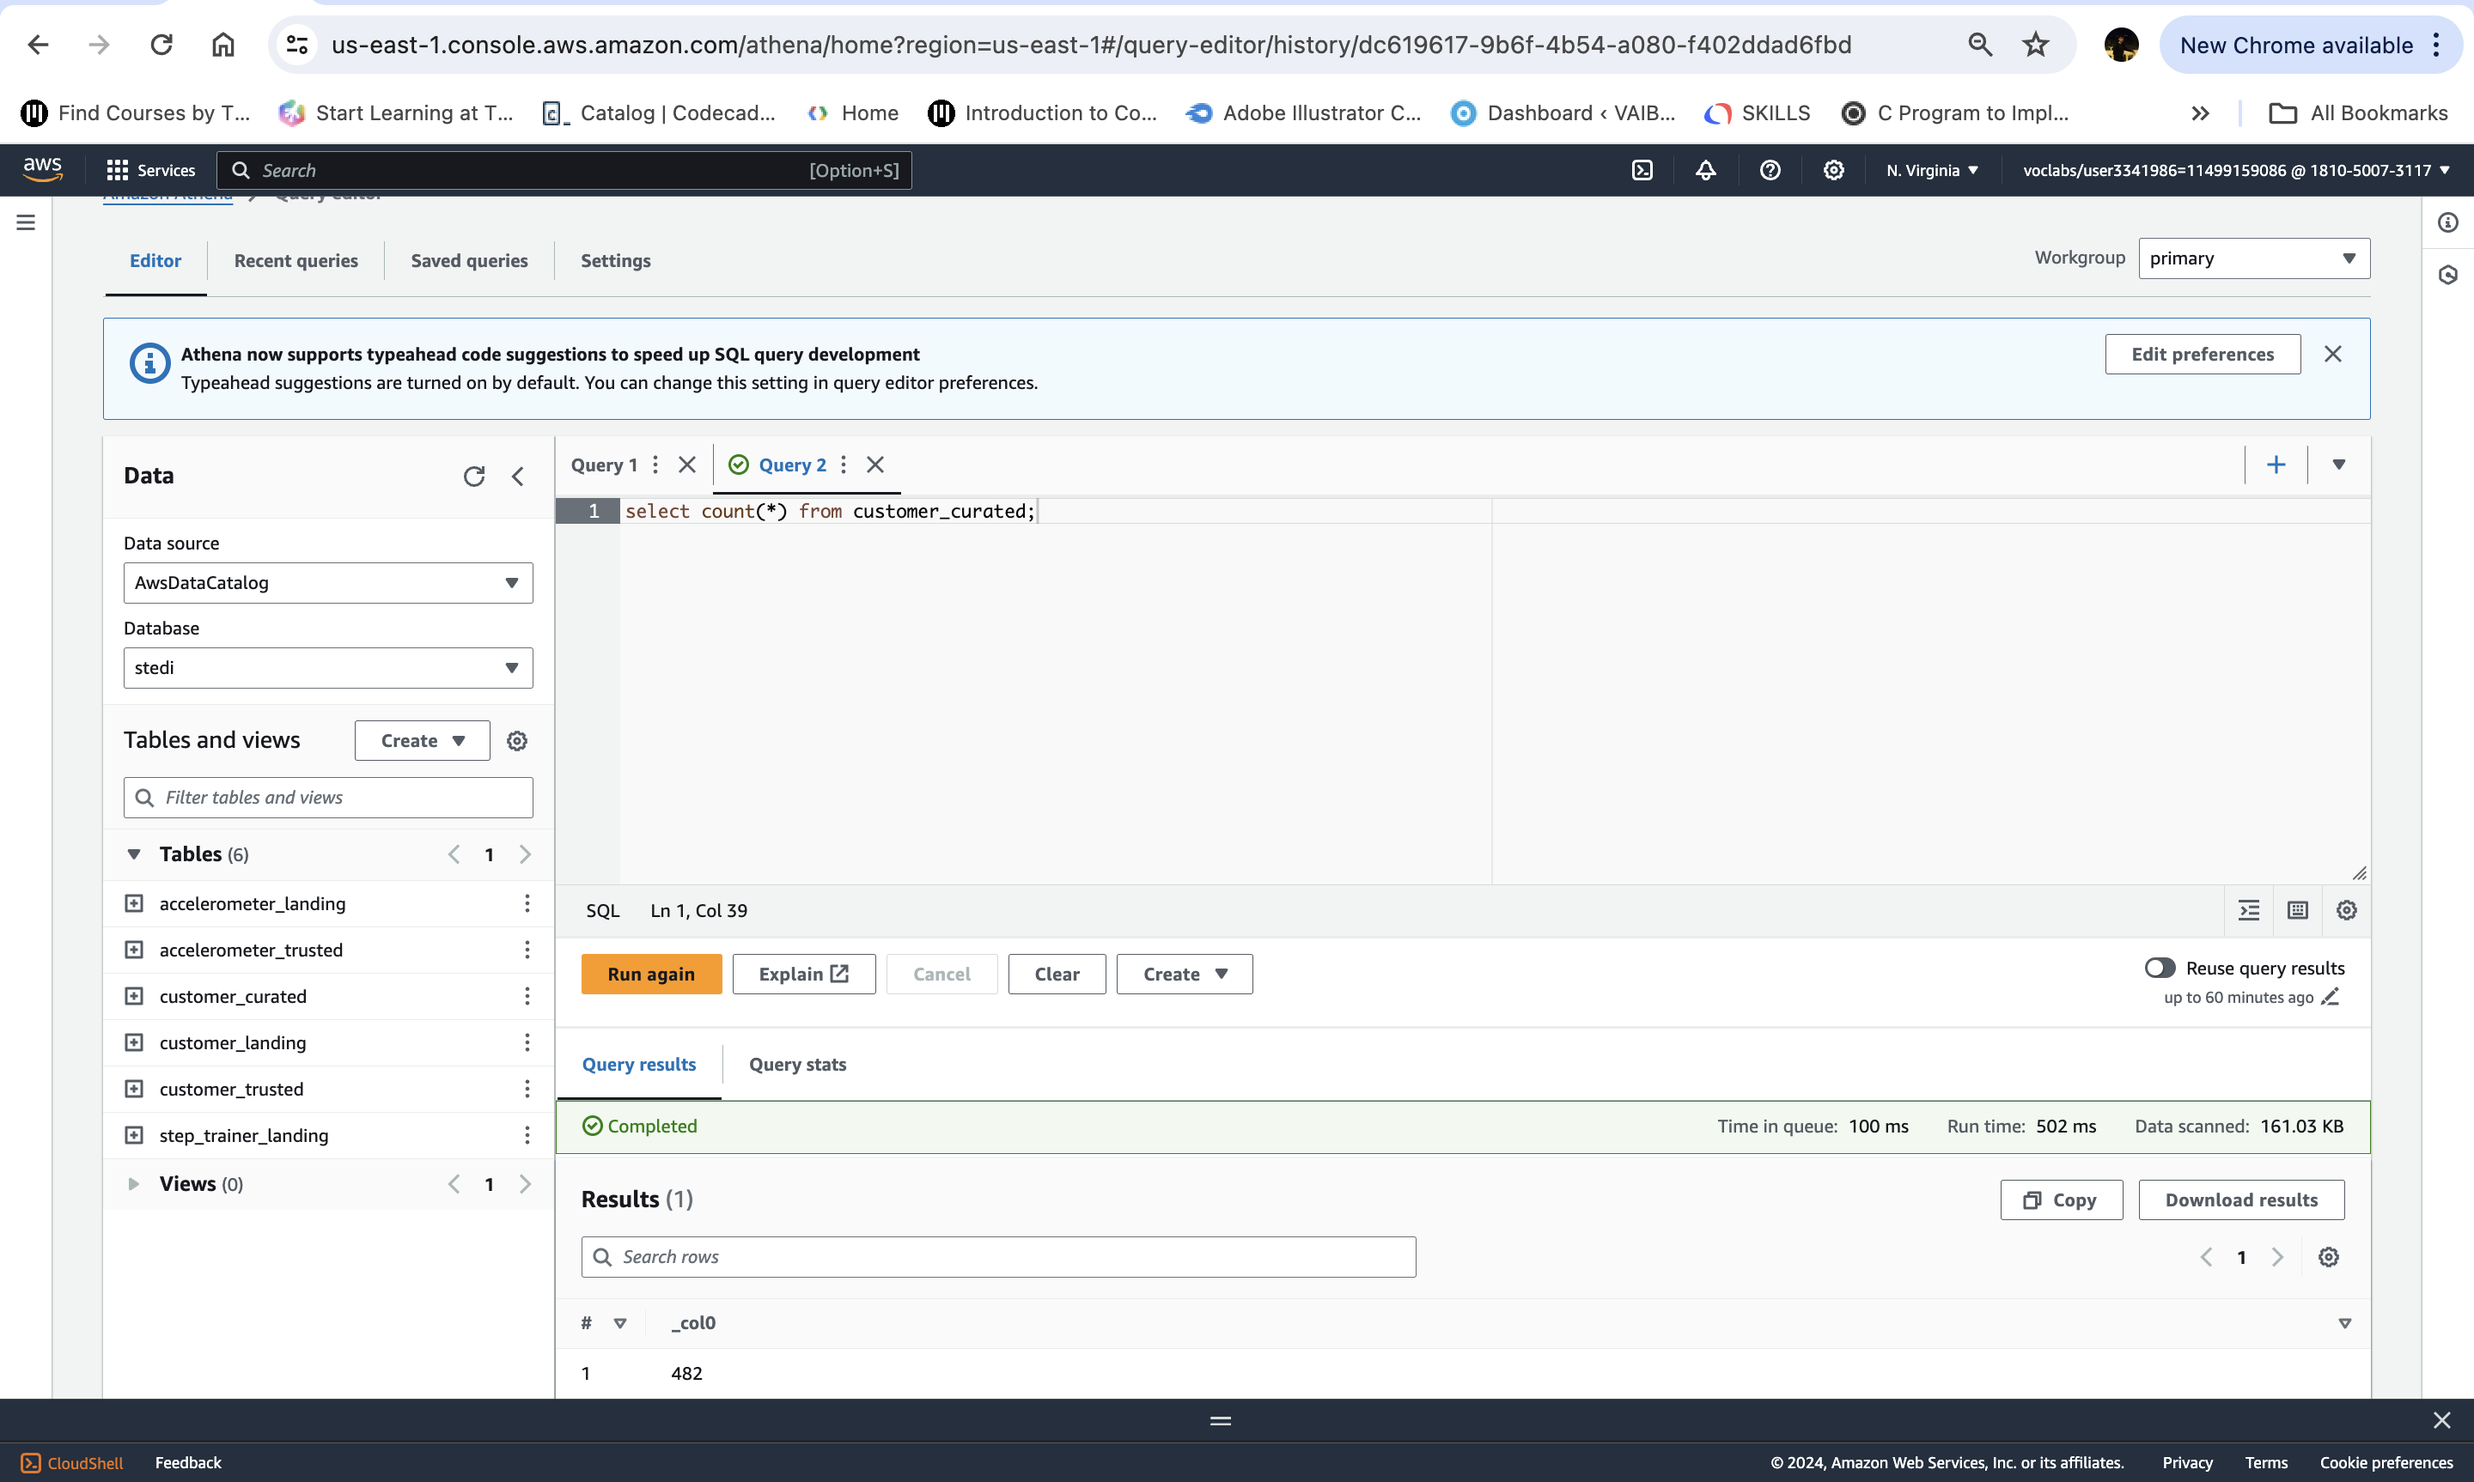
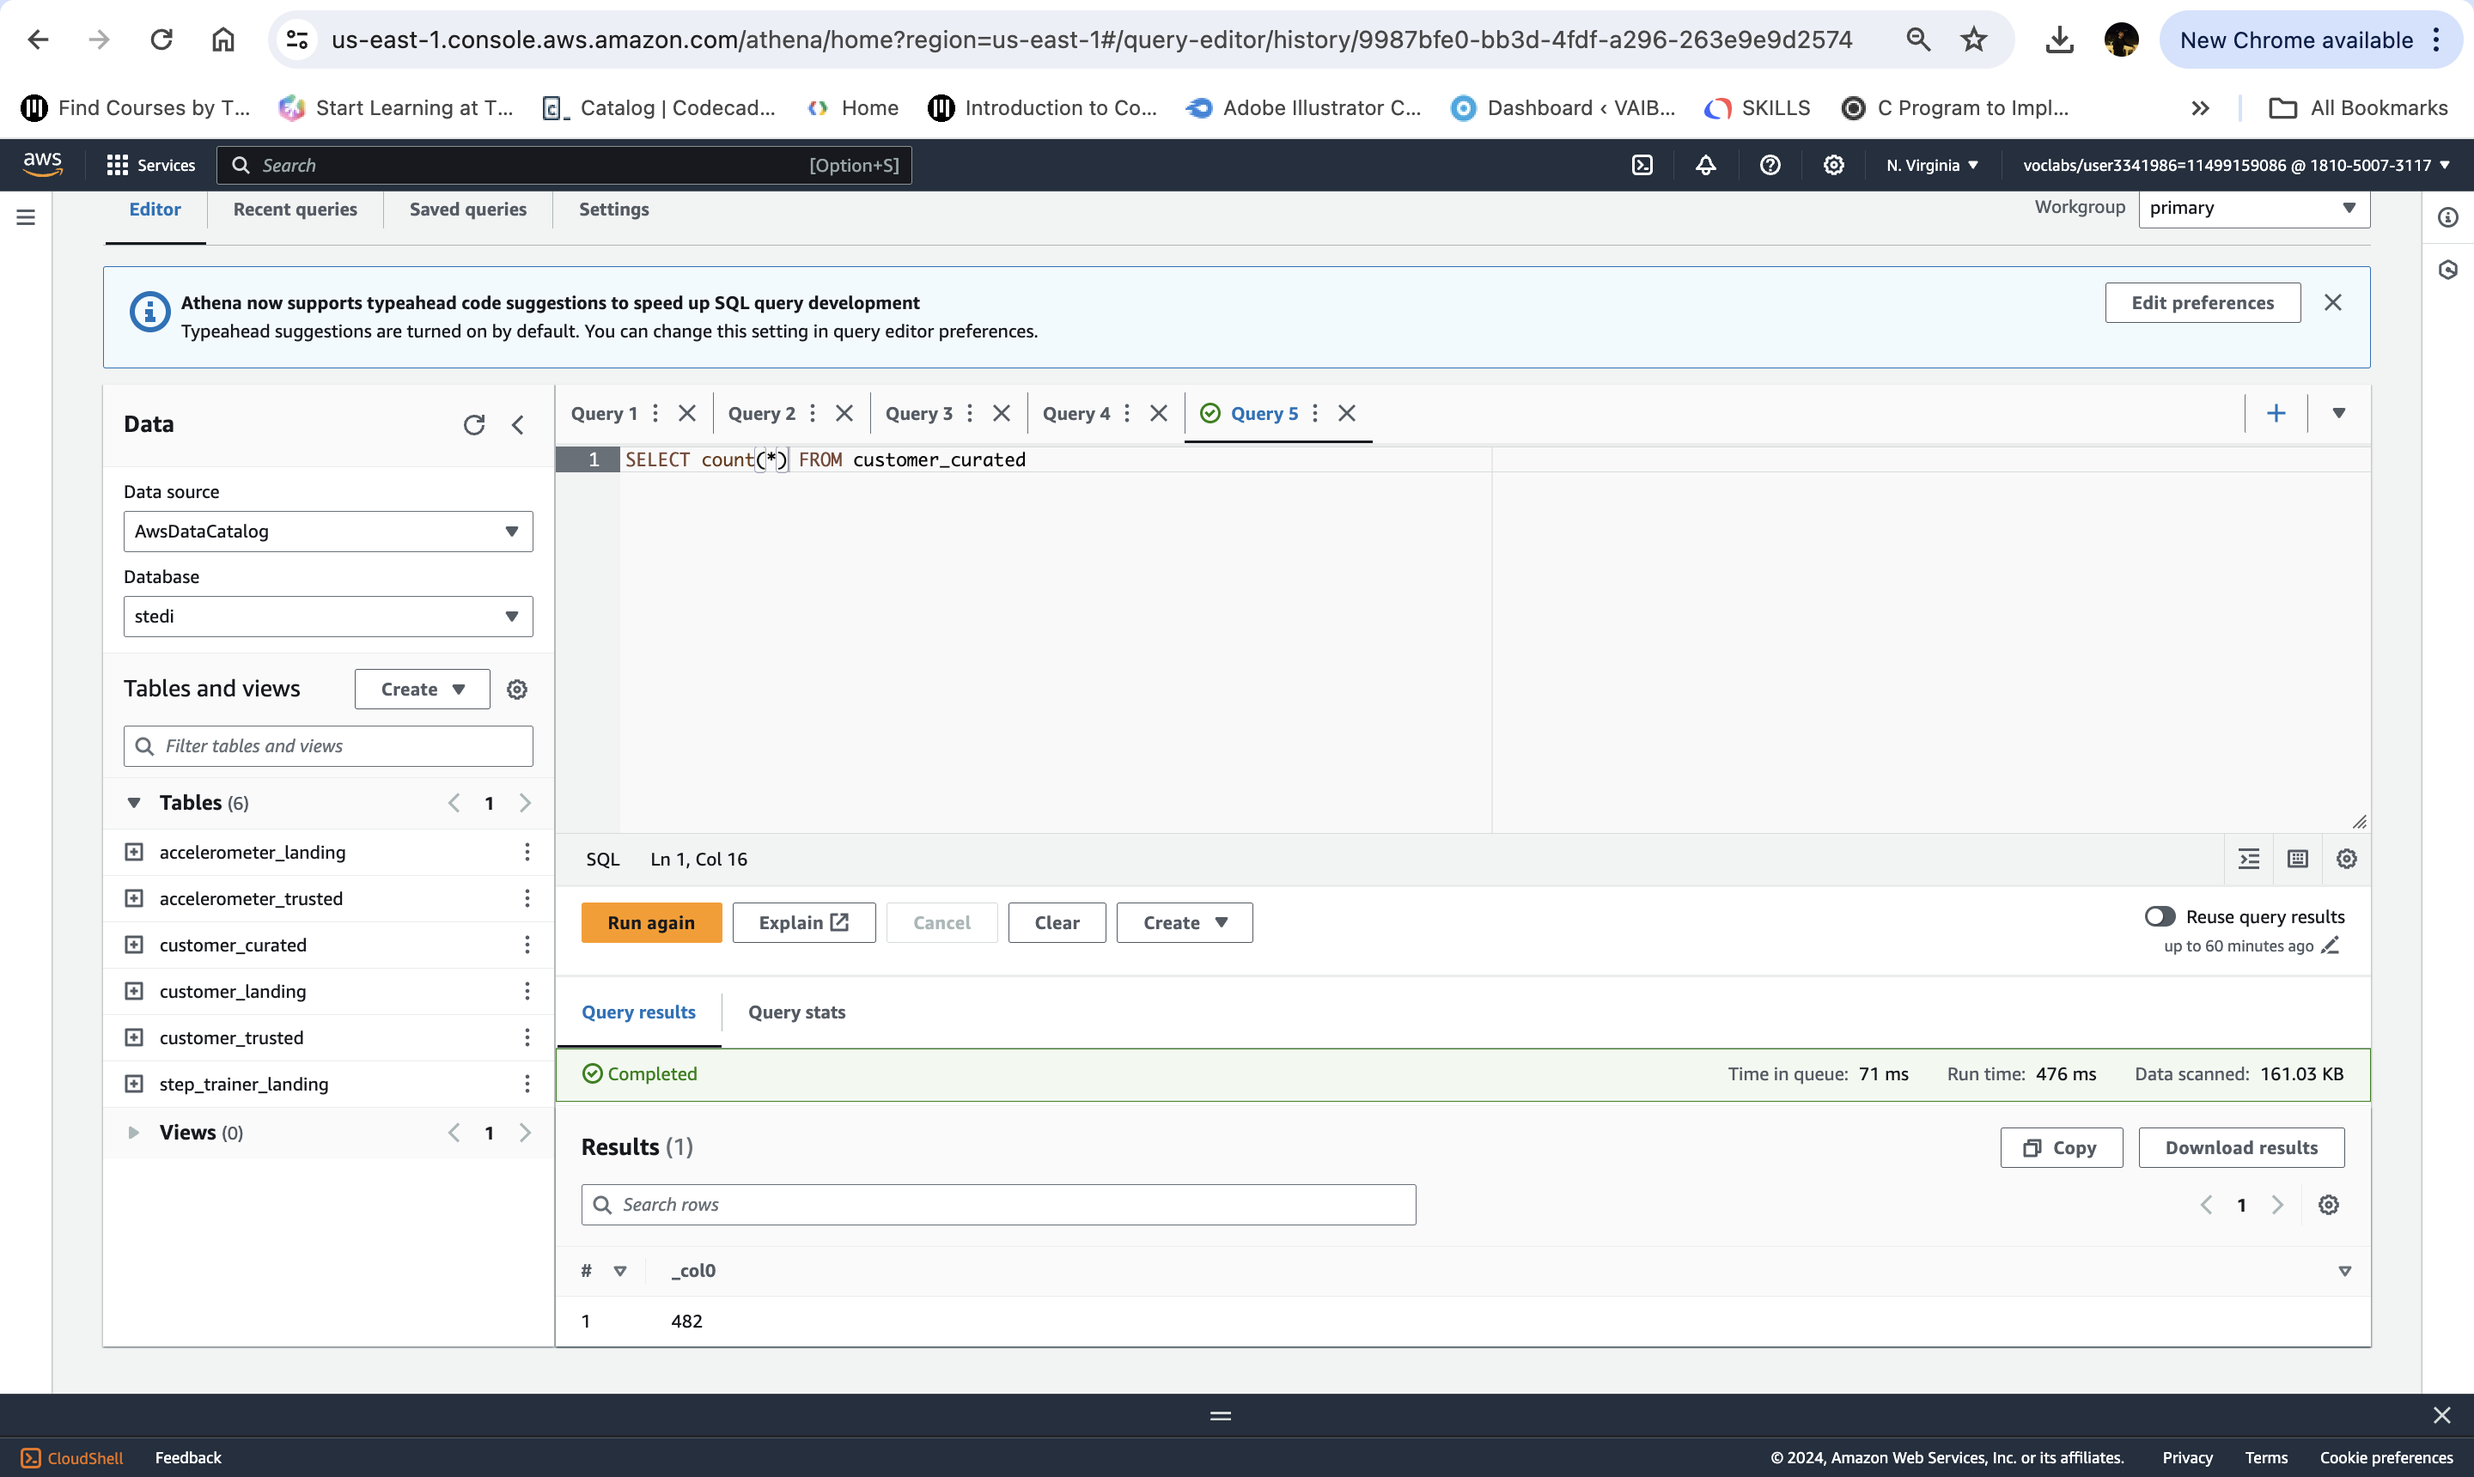
added athen query screenshots

diff --git a/README.md b/README.md
@@ -20,6 +20,10 @@ Step Trainer: 28680
 
 ![Dexcription](./images/step_trainer_landing.png)
 
+The customer landing data has multiple rows where shareWithResearchAsOfDate is blank.
+
+![Dexcription](./images/shareofresearch.png)
+
 **Trusted Zone (Filtering,PII)**
 
 Customer: 482
@@ -30,5 +34,23 @@ Accelerometer: 40981
 
 ![Dexcription](./images/accelerometer_trusted.png)
 
+Step Trainer : 40981
 
+![Dexcription](./images/step_trainer_trusted.png)
+
+Customer Trusted (table that shows no blank shareWithResearchAsOfDate row): Empty
+
+**SELECT* FROM customer_trusted WHERE sharewithresearchasofdate IS NULL** : Empty Table
+
+![Dexcription](./images/pii.png)
+
+**Curated Zone**
+
+Customer: 482
+
+![Dexcription](./images/customer_curated.png)
+
+Accelerometer: 40981
+
+![Dexcription](./images/step_trainer_curated.png)
 
